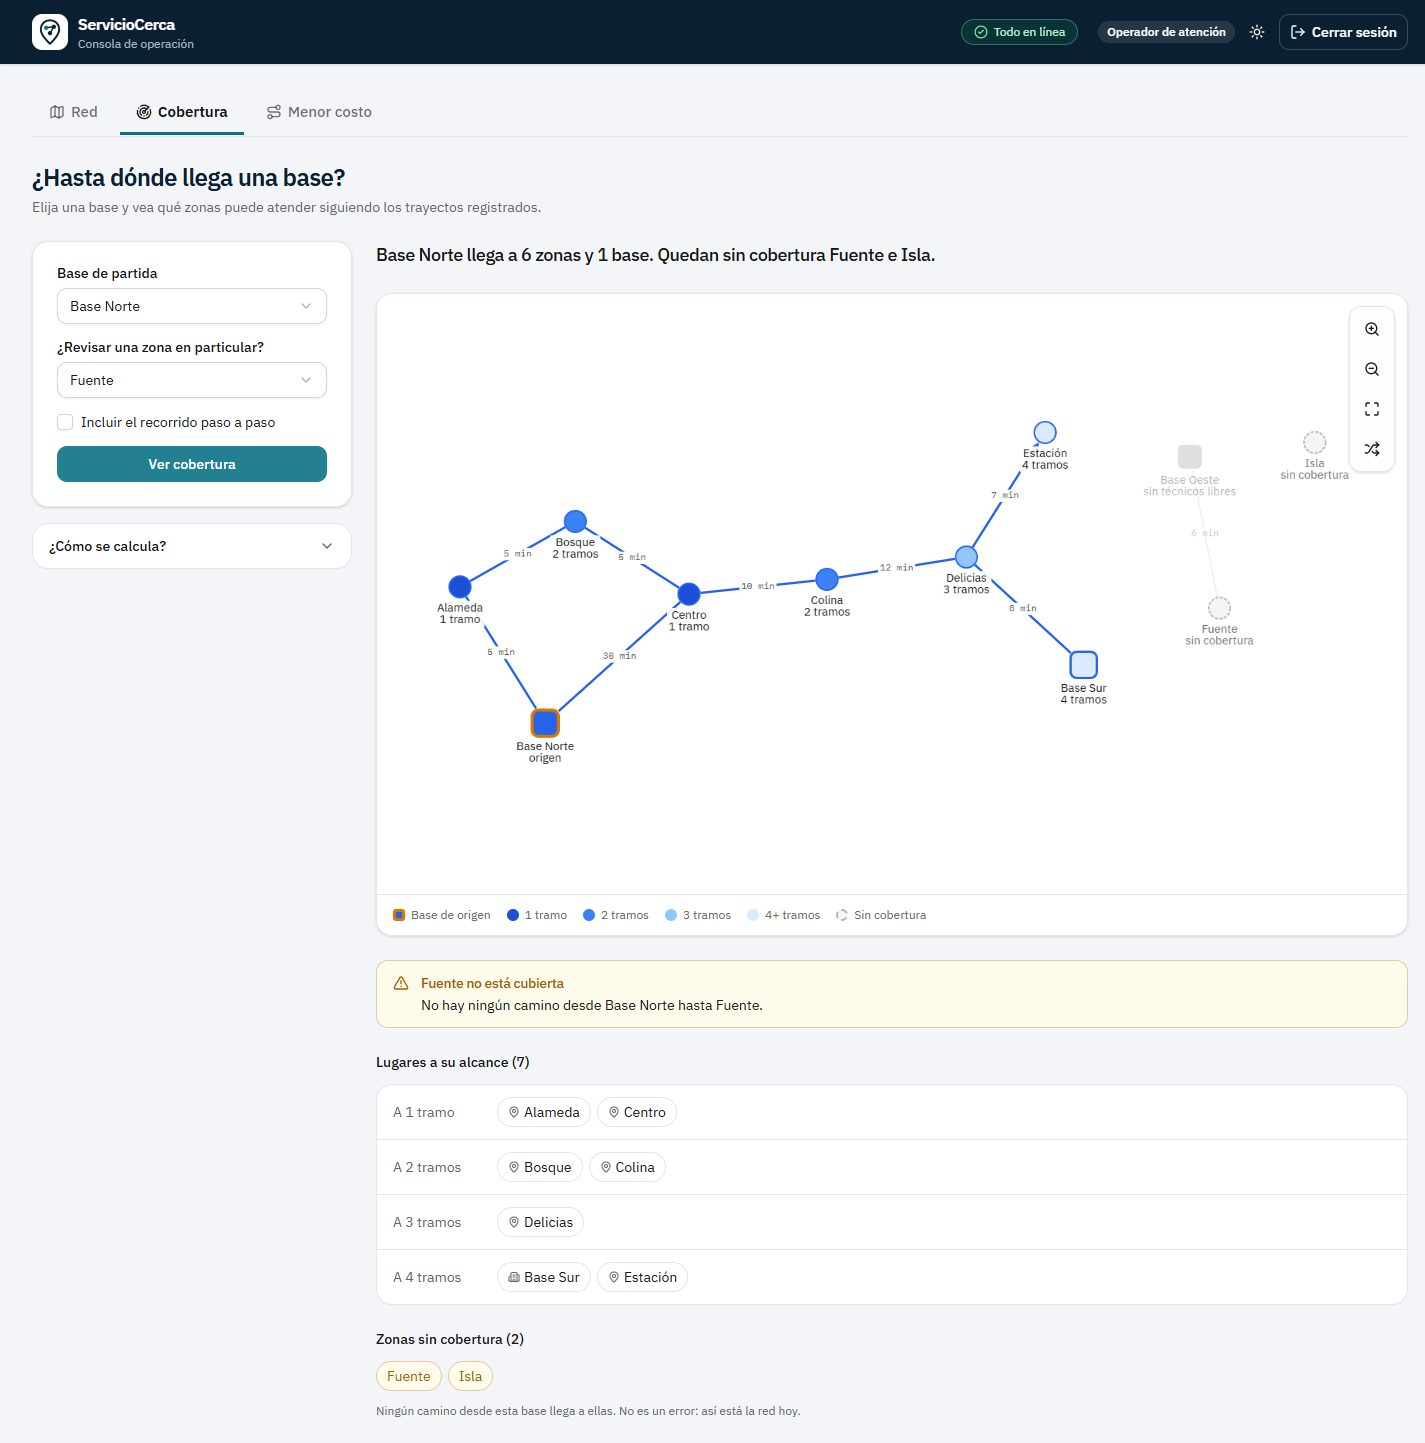
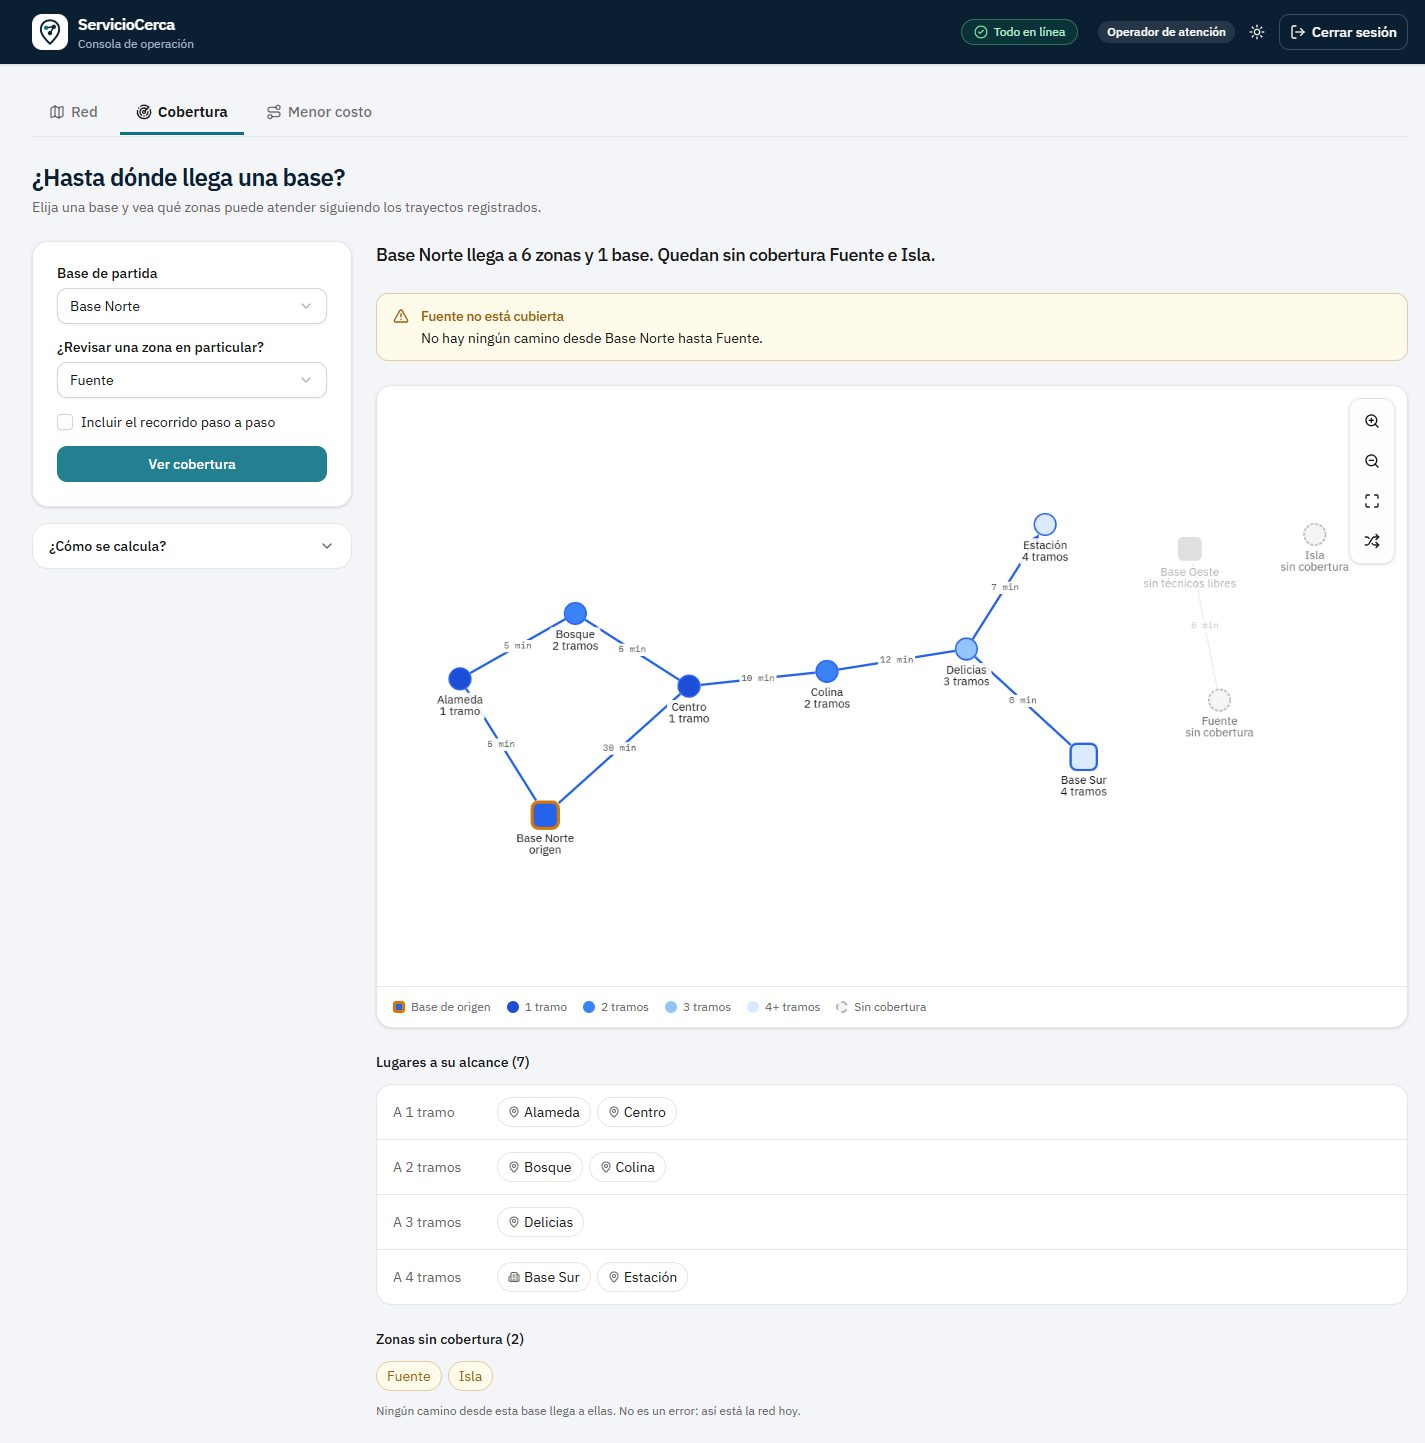
feat(web): mostrar los avisos arriba del mapa en cobertura y menor costo

diff --git a/services/web/src/components/route/route-result.tsx b/services/web/src/components/route/route-result.tsx
@@ -12,7 +12,6 @@ import {
   dijkstraTraceRows,
   fewestHopsComparison,
   itinerary,
-  routeSummary,
   type DijkstraTraceRow,
   type RouteOverlay,
 } from "@/lib/route-format";
@@ -90,6 +89,30 @@ function DijkstraTrace({ network, trace }: { network: Network; trace: TraceStep[
   );
 }
 
+/** Aviso de la ruta (sin camino, o menos tramos no es más rápido). Va arriba del mapa. */
+export function RouteNotice({ network, report }: { network: Network; report: RouteReport }) {
+  if (!report.found) {
+    return (
+      <Alert variant="warning" role="status">
+        <MapPinOff aria-hidden />
+        <AlertTitle>No hay ruta en ese sentido</AlertTitle>
+        <AlertDescription>
+          No es un error: así está la red hoy. Pruebe con otro destino o con «Invertir el sentido».
+        </AlertDescription>
+      </Alert>
+    );
+  }
+  const comparison = fewestHopsComparison(network, report);
+  if (!comparison) return null;
+  return (
+    <Alert role="note">
+      <Clock aria-hidden />
+      <AlertTitle>Menos tramos no siempre es más rápido</AlertTitle>
+      <AlertDescription>{comparison}</AlertDescription>
+    </Alert>
+  );
+}
+
 export function RouteResult({
   network,
   report,
@@ -99,29 +122,29 @@ export function RouteResult({
   report: RouteReport;
   overlay: RouteOverlay | null;
 }) {
-  const comparison = fewestHopsComparison(network, report);
   return (
     <div className="space-y-6">
-      {!report.found ? (
-        <Alert variant="warning" role="status">
-          <MapPinOff aria-hidden />
-          <AlertTitle>No hay ruta en ese sentido</AlertTitle>
-          <AlertDescription>
-            {routeSummary(network, report)} No es un error: así está la red hoy.
-          </AlertDescription>
-        </Alert>
-      ) : (
-        comparison && (
-          <Alert role="note">
-            <Clock aria-hidden />
-            <AlertTitle>Menos tramos no siempre es más rápido</AlertTitle>
-            <AlertDescription>{comparison}</AlertDescription>
-          </Alert>
-        )
-      )}
       {overlay && <Itinerary network={network} overlay={overlay} />}
       <DijkstraTrace network={network} trace={report.trace} />
     </div>
+  );
+}
+
+/** Aviso cuando ninguna base con técnico puede atender la zona. Va arriba del mapa. */
+export function AttentionNotice({
+  network,
+  report,
+}: {
+  network: Network;
+  report: AttentionReport;
+}) {
+  if (report.found) return null;
+  return (
+    <Alert variant="warning" role="status">
+      <TriangleAlert aria-hidden />
+      <AlertTitle>No se puede atender esta zona</AlertTitle>
+      <AlertDescription>{attentionSummary(network, report)}</AlertDescription>
+    </Alert>
   );
 }
 
@@ -137,13 +160,6 @@ export function AttentionResult({
   const alternatives = alternativeRows(network, report);
   return (
     <div className="space-y-6">
-      {!report.found && (
-        <Alert variant="warning" role="status">
-          <TriangleAlert aria-hidden />
-          <AlertTitle>No se puede atender esta zona</AlertTitle>
-          <AlertDescription>{attentionSummary(network, report)}</AlertDescription>
-        </Alert>
-      )}
       {overlay && <Itinerary network={network} overlay={overlay} />}
       {alternatives.length > 0 && (
         <section className="space-y-3" aria-labelledby="alternatives-title">

diff --git a/services/web/tests/ui/route-tab.test.tsx b/services/web/tests/ui/route-tab.test.tsx
@@ -175,3 +175,33 @@ describe("pestaña Menor costo", () => {
     expect(screen.queryByRole("button", { name: "Ver ruta" })).not.toBeInTheDocument();
   });
 });
+
+describe("pestaña Menor costo · avisos visibles", () => {
+  it("el aviso de 'no hay ruta' y la comparación aparecen arriba del mapa", async () => {
+    const { user } = await openRoutes();
+    await choose(user, "Desde", "Base Norte");
+    await choose(user, "Hasta", "Fuente");
+    await user.click(screen.getByRole("button", { name: "Ver ruta" }));
+    const noRoute = await screen.findByText("No hay ruta en ese sentido");
+    const before = (el: Element) =>
+      el.compareDocumentPosition(screen.getByTestId("network-graph")) &
+      Node.DOCUMENT_POSITION_FOLLOWING;
+    expect(before(noRoute)).toBeTruthy();
+
+    await choose(user, "Hasta", "Centro");
+    await user.click(screen.getByRole("button", { name: "Ver ruta" }));
+    expect(before(await screen.findByText("Menos tramos no siempre es más rápido"))).toBeTruthy();
+  });
+
+  it("el aviso de zona no atendible aparece arriba del mapa", async () => {
+    const { user } = await openRoutes();
+    await user.click(screen.getByRole("tab", { name: "Mejor base" }));
+    await choose(user, "Zona a atender", "Fuente");
+    await user.click(screen.getByRole("button", { name: "Buscar base" }));
+    const notice = await screen.findByText("No se puede atender esta zona");
+    expect(
+      notice.compareDocumentPosition(screen.getByTestId("network-graph")) &
+        Node.DOCUMENT_POSITION_FOLLOWING,
+    ).toBeTruthy();
+  });
+});

diff --git a/services/web/src/components/coverage/coverage-tab.tsx b/services/web/src/components/coverage/coverage-tab.tsx
@@ -2,7 +2,7 @@ import { useMutation } from "@tanstack/react-query";
 import { ChevronDown, Loader2, Radar } from "lucide-react";
 import { useMemo, useState, type SubmitEvent } from "react";
 
-import { CoverageResult } from "@/components/coverage/coverage-result";
+import { CoverageResult, ZoneVerdict } from "@/components/coverage/coverage-result";
 import { FormError, SelectField } from "@/components/form-fields";
 import { GraphLegend } from "@/components/graph-legend";
 import { NetworkGraph } from "@/components/network-graph";
@@ -37,6 +37,7 @@ export function CoverageTab({ network }: { network: Network }) {
       api.coverage(origin, target, withTrace),
   });
   const report = query.data;
+  const nameOf = (id: string) => network.nodes.find((node) => node.id === id)?.name ?? id;
   const overlay = useMemo(() => (report ? coverageOverlay(report) : null), [report]);
   const chosenBase = base !== null && bases.some((b) => b.id === base) ? base : (bases[0]?.id ?? "");
 
@@ -127,6 +128,13 @@ export function CoverageTab({ network }: { network: Network }) {
               <p className="text-lg font-medium tracking-tight text-pretty" role="status">
                 {coverageSummary(network, report)}
               </p>
+            )}
+            {report?.zone && (
+              <ZoneVerdict
+                zone={report.zone}
+                name={nameOf(report.zone.id)}
+                origin={nameOf(report.base)}
+              />
             )}
             <Card className="gap-0 overflow-hidden py-0">
               <NetworkGraph

diff --git a/services/web/src/components/route/route-tab.tsx b/services/web/src/components/route/route-tab.tsx
@@ -5,7 +5,12 @@ import { useMemo, useState, type SubmitEvent } from "react";
 import { FormError, SelectField } from "@/components/form-fields";
 import { GraphLegend } from "@/components/graph-legend";
 import { NetworkGraph } from "@/components/network-graph";
-import { AttentionResult, RouteResult } from "@/components/route/route-result";
+import {
+  AttentionNotice,
+  AttentionResult,
+  RouteNotice,
+  RouteResult,
+} from "@/components/route/route-result";
 import { SectionHeader } from "@/components/section-header";
 import { EmptyState } from "@/components/states";
 import { Button } from "@/components/ui/button";
@@ -256,6 +261,10 @@ export function RouteTab({ network }: { network: Network }) {
               <p className="text-lg font-medium tracking-tight text-pretty" role="status">
                 {summary}
               </p>
+            )}
+            {mode === "route" && route && <RouteNotice network={network} report={route} />}
+            {mode === "attention" && attention && (
+              <AttentionNotice network={network} report={attention} />
             )}
             <Card className="gap-0 overflow-hidden py-0">
               <NetworkGraph

diff --git a/services/web/src/components/coverage/coverage-result.tsx b/services/web/src/components/coverage/coverage-result.tsx
@@ -10,7 +10,16 @@ import type { CoverageReport, Network, ZoneCheck } from "@/lib/types";
 
 const TRACE_ACTIONS: Record<string, string> = { Visita: "Se visita", Encola: "Se agrega a la fila" };
 
-function ZoneVerdict({ zone, name, origin }: { zone: ZoneCheck; name: string; origin: string }) {
+/** Veredicto de la zona consultada. La pestaña lo muestra arriba del mapa, para verlo sin bajar. */
+export function ZoneVerdict({
+  zone,
+  name,
+  origin,
+}: {
+  zone: ZoneCheck;
+  name: string;
+  origin: string;
+}) {
   const hops = zone.hops ?? 0;
   return (
     <Alert variant={zone.covered ? "success" : "warning"} role="status">
@@ -36,10 +45,6 @@ export function CoverageResult({ network, report }: { network: Network; report: 
 
   return (
     <div className="space-y-6">
-      {report.zone && (
-        <ZoneVerdict zone={report.zone} name={nameOf(report.zone.id)} origin={nameOf(report.base)} />
-      )}
-
       <section className="space-y-3" aria-labelledby="reachable-title">
         <h3 id="reachable-title" className="text-sm font-medium">
           Lugares a su alcance ({reachable.length})

diff --git a/services/web/tests/ui/coverage-tab.test.tsx b/services/web/tests/ui/coverage-tab.test.tsx
@@ -127,3 +127,14 @@ describe("pestaña Cobertura", () => {
     expect(screen.getByText("Todavía no hay bases")).toBeInTheDocument();
   });
 });
+
+describe("pestaña Cobertura · aviso visible", () => {
+  it("el veredicto de la zona aparece arriba del mapa, sin tener que bajar", async () => {
+    const { user } = await openCoverage();
+    await choose(user, "¿Revisar una zona en particular?", "Fuente");
+    await user.click(screen.getByRole("button", { name: "Ver cobertura" }));
+    const verdict = await screen.findByText("Fuente no está cubierta");
+    const map = screen.getByTestId("network-graph");
+    expect(verdict.compareDocumentPosition(map) & Node.DOCUMENT_POSITION_FOLLOWING).toBeTruthy();
+  });
+});

diff --git a/docs/features/F4-consola.md b/docs/features/F4-consola.md
@@ -28,7 +28,7 @@ SPA en React 19 + Vite + TypeScript, con Tailwind CSS v4, shadcn/ui (Radix), Tan
 - [x] **Cobertura** (ambos roles):
   - base y zona opcional, con traza opcional ("Incluir el recorrido paso a paso");
   - **resumen en una frase**: "Base Norte llega a 6 zonas y 1 base. Quedan sin cobertura Fuente e Isla.";
-  - veredicto de la zona con nombres: verde con "Centro está cubierta / Se llega desde Base Norte en 1 tramo", ámbar con "Fuente no está cubierta" (no es un error);
+  - veredicto de la zona con nombres: verde con "Centro está cubierta / Se llega desde Base Norte en 1 tramo", ámbar con "Fuente no está cubierta" (no es un error). Aparece **arriba del mapa**, junto al resumen, para verse sin bajar (2026-11-20);
   - lugares alcanzados agrupados por distancia ("A 1 tramo: Alameda, Centro") y zonas sin cobertura como etiquetas;
   - "¿Cómo se calcula?" explica la regla (BFS) sin imponer la jerga;
   - **la cobertura se resalta en el mapa:** origen con anillo ámbar, nodos alcanzados coloreados por tramos con la etiqueta "N tramos", zonas sin cobertura punteadas con "sin cobertura", y el resto atenuado. Leyenda propia.
@@ -49,7 +49,7 @@ SPA en React 19 + Vite + TypeScript, con Tailwind CSS v4, shadcn/ui (Radix), Tan
   - si el camino de menos tramos es otro, se dibuja punteado en ámbar y se explica: "El camino de menos tramos (Base Norte → Centro, 1 tramo) tarda 30 min: esta ruta ahorra 15 min.";
   - frase principal con nombres ("De Base Norte a Centro: 15 min en 3 tramos, por Alameda y Bosque.") e itinerario numerado tramo a tramo;
   - *Mejor base*: elige la zona; recomienda la base con técnico disponible ("Enviar desde Base Sur (Marta): 20 min en 2 tramos."), pinta su ruta y lista las otras bases. Si no se puede atender, lo explica con nombres;
-  - sin ruta o sin base que atienda, el aviso es ámbar: es una respuesta válida, no un error.
+  - sin ruta o sin base que atienda, el aviso es ámbar: es una respuesta válida, no un error. Estos avisos, y el de "menos tramos no siempre es más rápido", aparecen **arriba del mapa**, junto al resumen (2026-11-20).
 - [x] La pestaña activa queda en la URL (`#red`, `#cobertura`, `#ruta`, `#configurar`).
 - [x] Las posiciones del mapa se conservan al recargar la red y entre pestañas.
 
